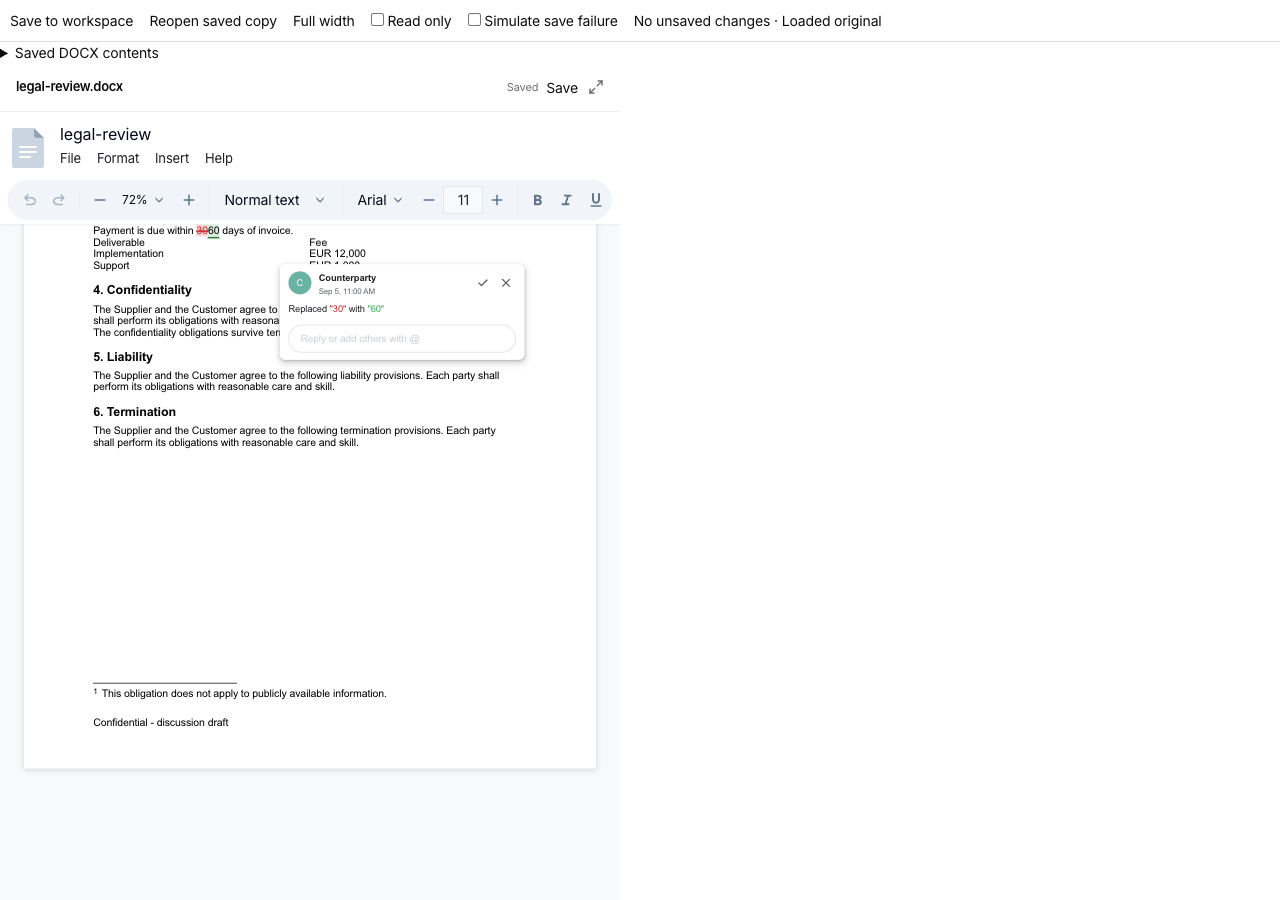
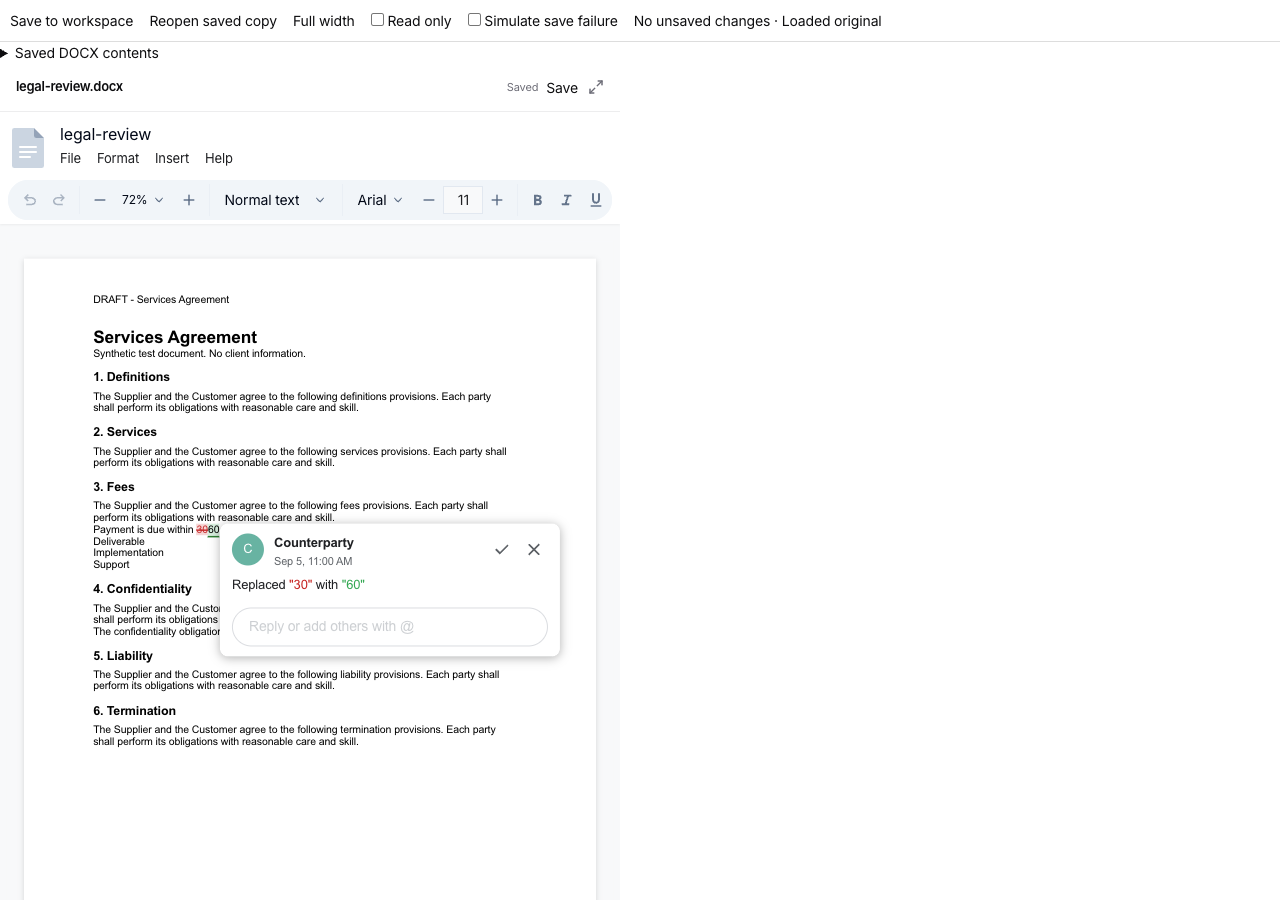
fix(docx): anchor review cards to the clicked revision

Changed region(s): [[0.0625, 0.2489, 0.4375, 0.84], [0.2188, 0.28, 0.3125, 0.3422]]

diff --git a/apps/app/src/react-app/domains/session/artifacts/use-docx-review-card.ts b/apps/app/src/react-app/domains/session/artifacts/use-docx-review-card.ts
@@ -1,6 +1,9 @@
 import { useCallback, useEffect, useRef, type MouseEvent, type RefObject } from "react";
 import type { DocxEditorRef } from "@eigenpal/docx-editor-react";
 import { extractTrackedChanges } from "@eigenpal/docx-editor-core/prosemirror/utils/extractTrackedChanges";
+import { positionDocxReviewCard } from "./docx-review-card-position";
+
+type ReviewAnchor = { revisionId: number; occurrence: number; fragment: number; keepOpen: boolean };
 
 /** Keep the clicked native revision card open when Eigenpal's deferred caret
  * update lands outside the revision and collapses it again. Track revision IDs,
@@ -9,59 +12,93 @@ export function useDocxReviewCard(
   containerRef: RefObject<HTMLDivElement | null>,
   editorRef: RefObject<DocxEditorRef | null>,
 ) {
-  const selectedRevision = useRef<number | null>(null);
+  const selected = useRef<ReviewAnchor | null>(null);
+  const positioned = useRef<HTMLElement | null>(null);
   const repairing = useRef(false);
   const frame = useRef(0);
+
+  const clearPosition = useCallback(() => {
+    positioned.current?.removeAttribute("data-docx-review-anchor");
+    positioned.current = null;
+  }, []);
 
   const restoreCard = useCallback(() => {
     cancelAnimationFrame(frame.current);
     frame.current = requestAnimationFrame(() => {
-      const revisionId = selectedRevision.current;
+      const anchor = selected.current;
       const host = containerRef.current;
       const view = editorRef.current?.getEditorRef()?.getView();
-      if (revisionId === null || !host || !view) return;
+      if (!anchor || !host || !view) return;
+      const { revisionId } = anchor;
       const index = extractTrackedChanges(view.state).entries.findIndex((entry) => (
         Number(entry.revisionId) === revisionId
         || Number(entry.insertionRevisionId) === revisionId
         || entry.coalescedRevisionIds?.some((id) => Number(id) === revisionId)
       ));
       if (index < 0) {
-        selectedRevision.current = null;
+        selected.current = null;
+        clearPosition();
         return;
       }
       const card = host.querySelectorAll<HTMLElement>(".docx-tracked-change-card")[index];
-      if (!card || card.querySelector("button")) return;
-      repairing.current = true;
-      card.click();
-      repairing.current = false;
+      if (!card) return;
+      if (!card.querySelector("button")) {
+        clearPosition();
+        if (anchor.keepOpen) {
+          repairing.current = true;
+          card.click();
+          repairing.current = false;
+        } else selected.current = null;
+        return;
+      }
+      const marks = host.querySelectorAll<HTMLElement>(`.paged-editor__pages [data-revision-id="${revisionId}"]`);
+      const mark = marks[Math.min(anchor.occurrence, marks.length - 1)];
+      const wrapper = card.parentElement;
+      if (!mark || !wrapper) { clearPosition(); return; }
+      if (positioned.current !== wrapper) clearPosition();
+      positioned.current = wrapper;
+      positionDocxReviewCard(host, wrapper, mark, anchor.fragment);
     });
-  }, [containerRef, editorRef]);
+  }, [containerRef, editorRef, clearPosition]);
 
   const onClickCapture = useCallback((event: MouseEvent<HTMLDivElement>) => {
     if (repairing.current || !(event.target instanceof Element)) return;
     if (event.target.closest(".docx-unified-sidebar")) {
-      // Native actions, card toggles and replies take over from the inline click.
-      selectedRevision.current = null;
+      // Keep the anchor while replying; let native actions/toggles close the card.
+      if (selected.current) selected.current.keepOpen = false;
+      restoreCard();
       return;
     }
     const mark = event.target.closest<HTMLElement>(".paged-editor__pages [data-revision-id]");
     const id = mark ? Number(mark.dataset.revisionId) : NaN;
-    selectedRevision.current = Number.isInteger(id) ? id : null;
-    if (selectedRevision.current !== null) restoreCard();
-  }, [restoreCard]);
+    clearPosition();
+    selected.current = null;
+    if (mark && Number.isInteger(id)) {
+      const marks = event.currentTarget.querySelectorAll(`.paged-editor__pages [data-revision-id="${id}"]`);
+      const fragment = [...mark.getClientRects()].findIndex((rect) => event.clientY >= rect.top && event.clientY <= rect.bottom);
+      selected.current = { revisionId: id, occurrence: [...marks].indexOf(mark), fragment: Math.max(0, fragment), keepOpen: true };
+      restoreCard();
+    }
+  }, [restoreCard, clearPosition]);
 
   useEffect(() => {
     const host = containerRef.current;
     if (!host) return;
     const observer = new MutationObserver(() => {
-      if (selectedRevision.current !== null) restoreCard();
+      if (selected.current) restoreCard();
     });
-    observer.observe(host, { childList: true, subtree: true });
+    observer.observe(host, { childList: true, subtree: true, attributes: true, attributeFilter: ["style"] });
+    const resize = new ResizeObserver(restoreCard);
+    resize.observe(host);
+    host.addEventListener("scroll", restoreCard, true);
     return () => {
       observer.disconnect();
+      resize.disconnect();
+      host.removeEventListener("scroll", restoreCard, true);
       cancelAnimationFrame(frame.current);
+      clearPosition();
     };
-  }, [containerRef, restoreCard]);
+  }, [containerRef, restoreCard, clearPosition]);
 
   return onClickCapture;
 }

diff --git a/apps/app/scripts/docx-review-position.js b/apps/app/scripts/docx-review-position.js
@@ -1,0 +1,92 @@
+// Run with playwright-cli run-code --filename=apps/app/scripts/docx-review-position.js
+// after opening /docx-review.html?fixture=positions on the local preview server.
+async (page) => {
+  if (!/^https?:\/\/(localhost|127\.0\.0\.1):\d+\/docx-review\.html\?fixture=positions$/.test(page.url())) {
+    throw new Error("Open the synthetic DOCX positioning fixture first.");
+  }
+  await page.reload();
+  await page.waitForFunction(() => document.querySelector(".layout-page")
+    || document.body.textContent.includes("Recover your unsaved draft?"));
+  const discard = page.getByRole("button", { name: "Discard draft and open file" });
+  if (await discard.isVisible()) await discard.click();
+  await page.waitForFunction(() => document.querySelectorAll(".layout-page").length === 3);
+  const mark = (id) => page.locator(`.paged-editor__pages [data-revision-id="${id}"]`);
+  const card = page.locator("[data-docx-review-anchor] .docx-tracked-change-card");
+  const check = async (id) => {
+    await page.waitForFunction((revisionId) => {
+      const m = document.querySelector(`.paged-editor__pages [data-revision-id="${revisionId}"]`);
+      const c = document.querySelector("[data-docx-review-anchor] .docx-tracked-change-card");
+      const v = document.querySelector(".docx-editor__scroll-container");
+      if (!m || !c || !v || getComputedStyle(c).visibility !== "visible") return false;
+      const a = m.getBoundingClientRect(), b = c.getBoundingClientRect(), bounds = v.getBoundingClientRect();
+      const gap = Math.max(0, b.top - a.bottom, a.top - b.bottom);
+      const overlap = Math.max(0, Math.min(a.right, b.right) - Math.max(a.left, b.left))
+        * Math.max(0, Math.min(a.bottom, b.bottom) - Math.max(a.top, b.top));
+      return gap <= 13 && overlap < 1 && b.left >= bounds.left && b.right <= bounds.right
+        && b.top >= bounds.top && b.bottom <= bounds.bottom
+        && Math.abs(b.width - Math.min(340, v.clientWidth - 24)) < 1;
+    }, id, { timeout: 5000 });
+    const reviewer = `Reviewer ${Math.floor((id - 100) / 2) + 1}`;
+    if (!(await card.getByText(reviewer, { exact: true }).isVisible())) throw new Error("The wrong revision card opened");
+  };
+  const select = async (id) => {
+    await mark(id).click();
+    await card.waitFor({ state: "visible" });
+    await page.waitForTimeout(650);
+    await check(id);
+  };
+  const center = async (id, nearBottom = false) => {
+    await mark(id).evaluate((m, bottom) => {
+      const v = m.closest(".docx-editor__scroll-container");
+      const offset = bottom ? v.clientHeight - 32 : 200;
+      v.scrollTop += m.getBoundingClientRect().top - v.getBoundingClientRect().top - offset;
+    }, nearBottom);
+    await check(id);
+  };
+  const screenshot = async (name) => {
+    // Let the transient page-number badge fade before recording visual evidence.
+    await page.waitForFunction(() => [...document.querySelectorAll('.docx-editor [role="status"][aria-live="polite"]')]
+      .every((element) => Number(getComputedStyle(element).opacity) === 0));
+    await page.screenshot({ path: `output/playwright/${name}.png` });
+  };
+
+  await page.setViewportSize({ width: 1280, height: 900 });
+  await page.getByRole("button", { name: "Narrow panel", exact: true }).click();
+  await select(104);
+  await center(104);
+  await screenshot("table-card-620");
+  // Following a scrolling page must not leave a floating card for offscreen text.
+  const previousScroll = await page.locator(".docx-editor__scroll-container").evaluate((v) => {
+    const before = v.scrollTop;
+    v.scrollTop += 700;
+    return before;
+  });
+  await card.waitFor({ state: "hidden" });
+  await page.locator(".docx-editor__scroll-container").evaluate((v, top) => { v.scrollTop = top; }, previousScroll);
+  await check(104);
+  await center(104, true);
+  await card.getByPlaceholder("Reply or add others with @").click();
+  await card.getByPlaceholder("Reply or add others with @").fill("Position check");
+  await check(104);
+  await card.getByRole("button", { name: "Cancel", exact: true }).click();
+  await check(104);
+  await card.getByRole("button", { name: "Accept", exact: true }).click();
+  await mark(104).waitFor({ state: "detached" });
+  await mark(105).waitFor({ state: "detached" });
+  await select(120);
+  await center(120);
+
+  await page.setViewportSize({ width: 420, height: 900 });
+  await select(120);
+  await center(120);
+  await screenshot("table-card-420");
+  await page.setViewportSize({ width: 1280, height: 900 });
+  await page.getByRole("button", { name: "Expand document", exact: true }).click();
+  await select(122);
+  await center(122);
+  await screenshot("table-card-expanded");
+  await page.getByRole("button", { name: "Zoom out", exact: true }).click();
+  await select(123);
+  await center(123);
+  await check(123);
+}

diff --git a/apps/app/src/react-app/domains/session/artifacts/docx-review-card-position.ts b/apps/app/src/react-app/domains/session/artifacts/docx-review-card-position.ts
@@ -1,0 +1,45 @@
+/** Position the native card from the rendered text, independent of the sidebar's
+ * collision stack and the document's zoomed coordinate system. */
+export function positionDocxReviewCard(host: HTMLElement, wrapper: HTMLElement, mark: HTMLElement, fragment: number) {
+  const viewport = host.querySelector<HTMLElement>(".docx-editor__scroll-container");
+  const parent = wrapper.parentElement;
+  const rects = mark.getClientRects();
+  const anchor = rects[Math.min(fragment, rects.length - 1)];
+  if (!viewport || !parent || !anchor || !parent.offsetWidth) return;
+  const bounds = viewport.getBoundingClientRect();
+  const origin = parent.getBoundingClientRect();
+  const scale = origin.width / parent.offsetWidth;
+  if (!scale) return;
+  const gutter = 12;
+  const width = Math.min(340, viewport.clientWidth - gutter * 2);
+  const set = (name: string, value: string) => {
+    if (wrapper.style.getPropertyValue(name) !== value) wrapper.style.setProperty(name, value);
+  };
+  wrapper.dataset.docxReviewAnchor = "";
+  set("--docx-review-width", `${width}px`);
+  set("--docx-review-scale", String(1 / scale));
+  set("--docx-review-max-height", `${bounds.height - gutter * 2}px`);
+  const height = wrapper.getBoundingClientRect().height;
+  const minLeft = bounds.left + gutter;
+  const maxLeft = bounds.left + viewport.clientWidth - gutter - width;
+  const minTop = bounds.top + gutter;
+  const maxTop = Math.max(minTop, bounds.bottom - gutter - height);
+  const pageRight = mark.closest(".layout-page")?.getBoundingClientRect().right ?? anchor.right;
+  // Prefer the page's review rail, then the space beside the clicked text.
+  let left = pageRight + gutter;
+  if (left > maxLeft) left = anchor.right + gutter;
+  if (left > maxLeft) left = anchor.left - gutter - width >= minLeft
+    ? anchor.left - gutter - width : maxLeft;
+  left = Math.max(minLeft, Math.min(maxLeft, left));
+  let top = anchor.top;
+  if (left < anchor.right && left + width > anchor.left) {
+    // When there is no horizontal room, put the card below/above the line.
+    top = anchor.bottom + gutter;
+    if (top > maxTop) top = anchor.top - gutter - height;
+  }
+  top = Math.max(minTop, Math.min(maxTop, top));
+  set("--docx-review-left", `${(left - origin.left) / scale}px`);
+  set("--docx-review-top", `${(top - origin.top) / scale}px`);
+  set("--docx-review-visibility", anchor.bottom > bounds.top && anchor.top < bounds.bottom
+    && anchor.right > bounds.left && anchor.left < bounds.right ? "visible" : "hidden");
+}

diff --git a/apps/app/scripts/docx-review.tsx b/apps/app/scripts/docx-review.tsx
@@ -8,7 +8,7 @@ import { Toaster } from "../src/components/ui/sonner";
 import "../src/app/index.css";
 
 // Development-only harness: real production editor, synthetic contract, in-memory persistence.
-function ReviewHarness({ initial }: { initial: ArrayBuffer }) {
+function ReviewHarness({ initial, fixture }: { initial: ArrayBuffer; fixture: string }) {
   const api = useRef<DocxEditorApi | null>(null);
   const [content, setContent] = useState(initial);
   const [saved, setSaved] = useState(initial);
@@ -31,7 +31,7 @@ function ReviewHarness({ initial }: { initial: ArrayBuffer }) {
     <details><summary>Saved DOCX contents</summary><pre aria-label="Saved DOCX contents" style={{ maxHeight: 160, overflow: "auto" }}>{savedReport}</pre></details>
     <div style={{ width: narrow ? 620 : "100%", maxWidth: "100%", flex: 1, minHeight: 0 }}>
       <ArtifactFrame title="legal-review.docx" meta={dirty ? "Unsaved changes" : "Saved"} expandable actions={<button onClick={() => void api.current?.save()}>Save</button>}>
-      <ArtifactDocxEditor key={generation} name="legal-review.docx" content={content} apiRef={api} readOnly={readOnly} recoveryKey="synthetic-contract-qa" baseUpdatedAt={1} onDirtyChange={setDirty} onSave={async (buffer) => {
+      <ArtifactDocxEditor key={generation} name="legal-review.docx" content={content} apiRef={api} readOnly={readOnly} recoveryKey={`synthetic-contract-qa-${fixture}`} baseUpdatedAt={1} onDirtyChange={setDirty} onSave={async (buffer) => {
         await new Promise((resolve) => setTimeout(resolve, 600));
         if (failSave) throw new Error("Simulated workspace write failure");
         setSaved(buffer.slice(0));
@@ -46,6 +46,9 @@ function ReviewHarness({ initial }: { initial: ArrayBuffer }) {
 
 if (import.meta.env.DEV || import.meta.env.MODE === "docx-review") {
   const root = document.getElementById("root");
-  const response = await fetch(new URL("./fixtures/legal-review.docx", import.meta.url));
-  if (root) createRoot(root).render(<ReviewHarness initial={await response.arrayBuffer()} />);
+  const positions = new URLSearchParams(location.search).get("fixture") === "positions";
+  const response = await fetch(positions
+    ? new URL("./fixtures/legal-review-positions.docx", import.meta.url)
+    : new URL("./fixtures/legal-review.docx", import.meta.url));
+  if (root) createRoot(root).render(<ReviewHarness initial={await response.arrayBuffer()} fixture={positions ? "positions" : "review"} />);
 }

diff --git a/apps/app/src/react-app/domains/session/artifacts/docx-editor-layout.css b/apps/app/src/react-app/domains/session/artifacts/docx-editor-layout.css
@@ -14,6 +14,31 @@
   container-type: inline-size;
 }
 
+/* Keep the selected native card readable and anchored to its rendered revision.
+   Its ancestors are scaled with the page, so the host supplies an inverse scale. */
+.docx-host .docx-unified-sidebar [data-docx-review-anchor] {
+  position: absolute !important;
+  top: var(--docx-review-top) !important;
+  left: var(--docx-review-left) !important;
+  right: auto !important;
+  width: var(--docx-review-width) !important;
+  max-height: var(--docx-review-max-height);
+  overflow-y: auto;
+  border-radius: 8px;
+  box-shadow: 0 2px 10px var(--doc-shadow-strong);
+  transform: scale(var(--docx-review-scale));
+  transform-origin: top left;
+  transition: none !important;
+  visibility: var(--docx-review-visibility) !important;
+  opacity: 1 !important;
+  z-index: 100;
+}
+
+/* A selected card follows its text instead of participating in the stacked list. */
+.docx-host .docx-unified-sidebar:has([data-docx-review-anchor]) > div > div:not([data-docx-review-anchor]) {
+  visibility: hidden;
+}
+
 /* In a side pane, annotations open over the page when their inline mark is
    selected. Reserve a separate review rail only when there is room for it. */
 @container (max-width: 899px) {

diff --git a/docs/reviews/docx-layout-follow-up.md b/docs/reviews/docx-layout-follow-up.md
@@ -18,11 +18,15 @@ Validation on the production components in the synthetic DOCX harness:
 
 Screenshots use only the synthetic fixture: [narrow panel](docx-narrow-layout.png), [expanded macOS-style view](docx-expanded-mac-layout.png). The title-bar check uses the app's macOS CSS classes in the browser harness; native window controls are not rendered in that screenshot.
 
-## Tracked-change card regression
+## Selected review cards
 
-The stack merge omitted the voice branch's handler that kept a clicked native review card expanded. In the narrow layout, the editor's deferred caret update could collapse the card, making it disappear. The host now remembers the clicked revision ID and restores that native card after rendering. It resolves the ID against the current document each time, including both halves of replacements and coalesced revisions. Clicking elsewhere or interacting with the card returns control to the editor.
+The stack merge omitted the voice branch's handler that kept a clicked native review card expanded. The host now remembers the clicked revision ID and restores that native card after rendering, resolving both halves of replacements and coalesced revisions against the current document.
 
-The browser regression uses the production editor with the synthetic fixture. It checks deletion and insertion clicks, persistence through the delayed caret update, dismissal, 620px and 420px panels, expansion, Accept and Reject, and save/reopen. Revision replies remain independent paragraph comments, as documented in the hardening review, and survive rejection. It passes without resetting zoom or replacing the native review controls.
+Selected cards are positioned from the clicked text's rendered rectangle, independently of the sidebar's collision stack. They follow scrolling, resizing and page zoom, remain readable at 340px where space permits, stay inside the editor viewport, and move below/above the text when there is no room beside it. A card hides while its anchor is offscreen. Other cards are hidden during this focused selection so they cannot overlap it; native actions and replies remain available.
+
+The interaction regression uses the production editor with the original synthetic fixture. It checks deletion and insertion clicks, delayed caret updates, dismissal, 620px and 420px panels, expansion, Accept and Reject, and save/reopen. Revision replies remain independent paragraph comments and survive rejection.
+
+The positioning regression uses a three-page synthetic document with 13 revisions, including 12 adjacent table replacements on page two. It verifies the correct card, a vertical gap of at most 13px from the selected text, viewport containment, no overlap with the selected text, and readable card width. Cases cover scrolling offscreen and back, placement near the bottom edge, replying, accepting another revision, 420px/620px panels, expansion, and manual zoom.
 
 Reproduce from the repository root with `PORT=5174 pnpm dev:ui`, then:
 
@@ -31,8 +35,13 @@ mkdir -p output/playwright
 pnpm dlx @playwright/cli --session docx-card open http://localhost:5174/docx-review.html
 pnpm dlx @playwright/cli --session docx-card run-code --filename=apps/app/scripts/docx-review-cards.js
 pnpm dlx @playwright/cli --session docx-card close
+pnpm dlx @playwright/cli --session docx-position open 'http://localhost:5174/docx-review.html?fixture=positions'
+pnpm dlx @playwright/cli --session docx-position run-code --filename=apps/app/scripts/docx-review-position.js
+pnpm dlx @playwright/cli --session docx-position close
 ```
 
-Also passed: `pnpm typecheck`, `pnpm build:ui`, `git diff --check`, and `node --experimental-strip-types --test apps/app/tests/docx-document-state.test.ts apps/app/tests/docx-roundtrip.test.ts` (10 tests). The browser logs the existing fixture favicon 404, dependency externalization warning, and Eigenpal controlled-input warnings during review/reopen; these did not prevent the interaction and persistence checks. This uses sample data in the browser harness, not a client's document.
+Both browser checks passed, together with `pnpm typecheck`, `pnpm build:ui`, `git diff --check`, and `node --experimental-strip-types --test apps/app/tests/docx-document-state.test.ts apps/app/tests/docx-roundtrip.test.ts` (10 tests). The browser logs the existing fixture favicon 404, dependency externalization warning, and Eigenpal controlled-input warnings during review/reopen; these did not prevent the interaction and persistence checks. This uses sample data in the browser harness, not a client's document.
 
 [Selected revision in a narrow panel](tracked-card-620.png) · [Selected revision in the expanded editor](tracked-card-expanded.png)
+
+[Table revision in a narrow panel](table-card-620.png) · [Table revision in the expanded editor](table-card-expanded.png)
